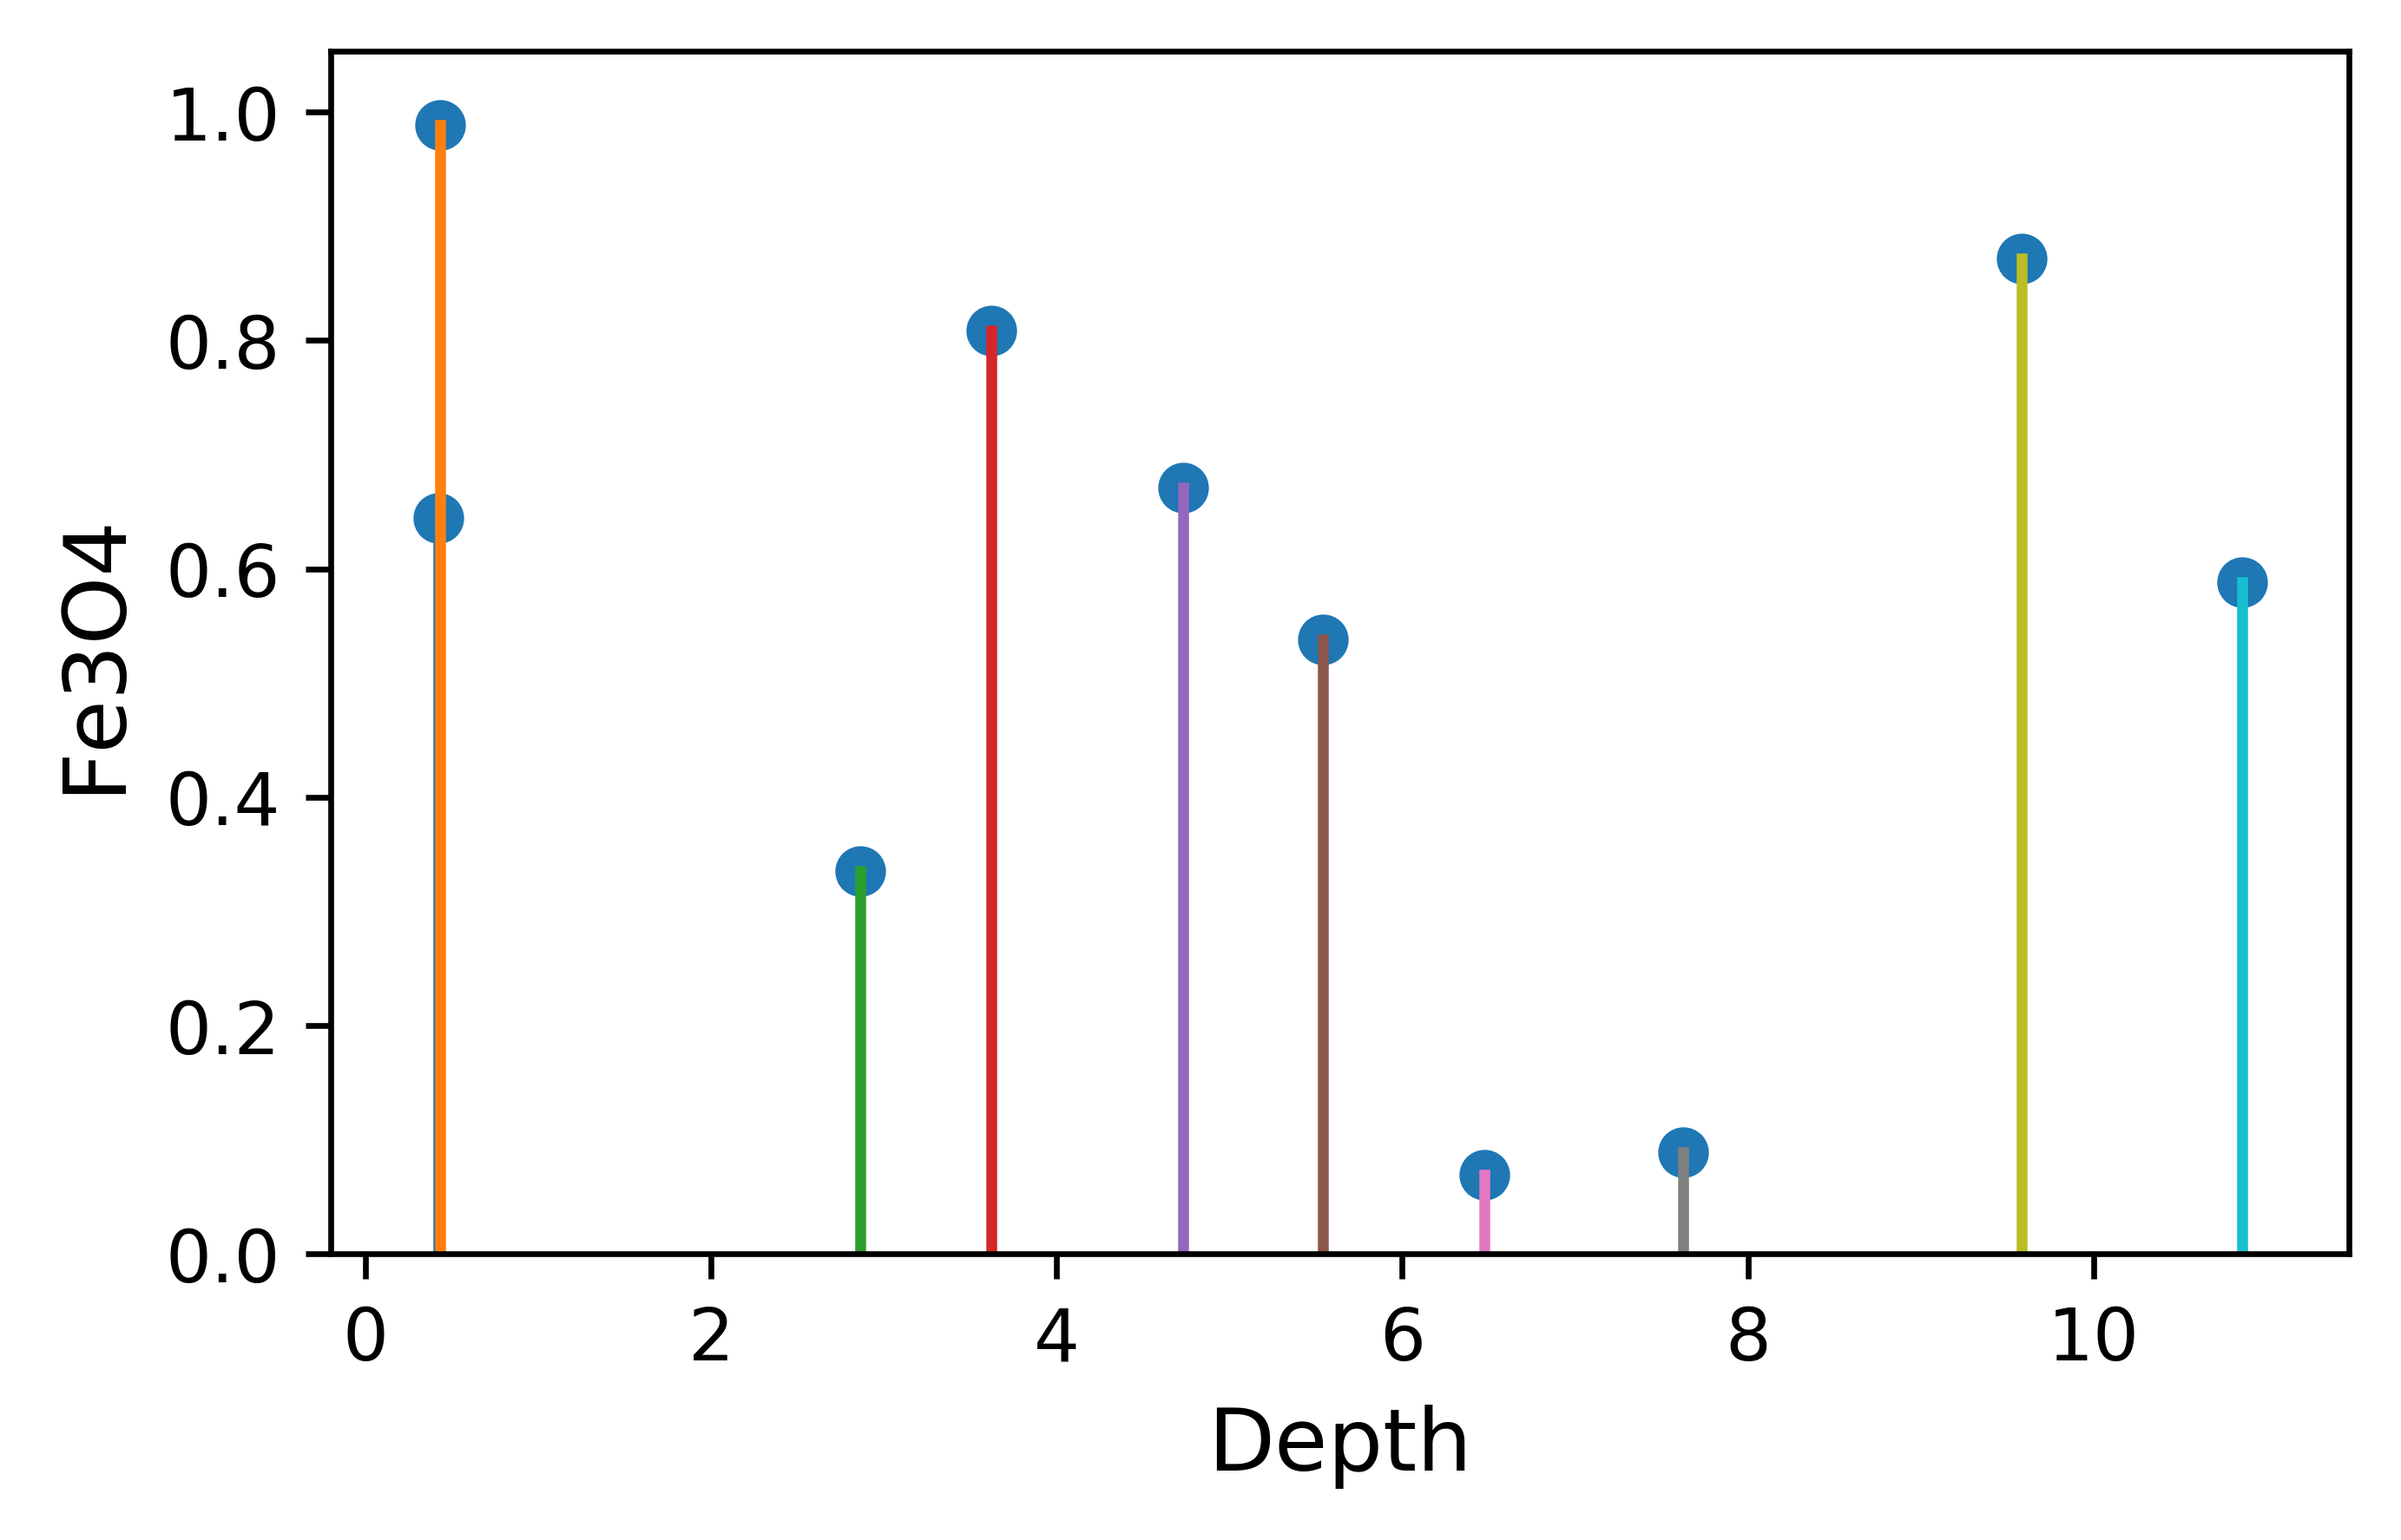
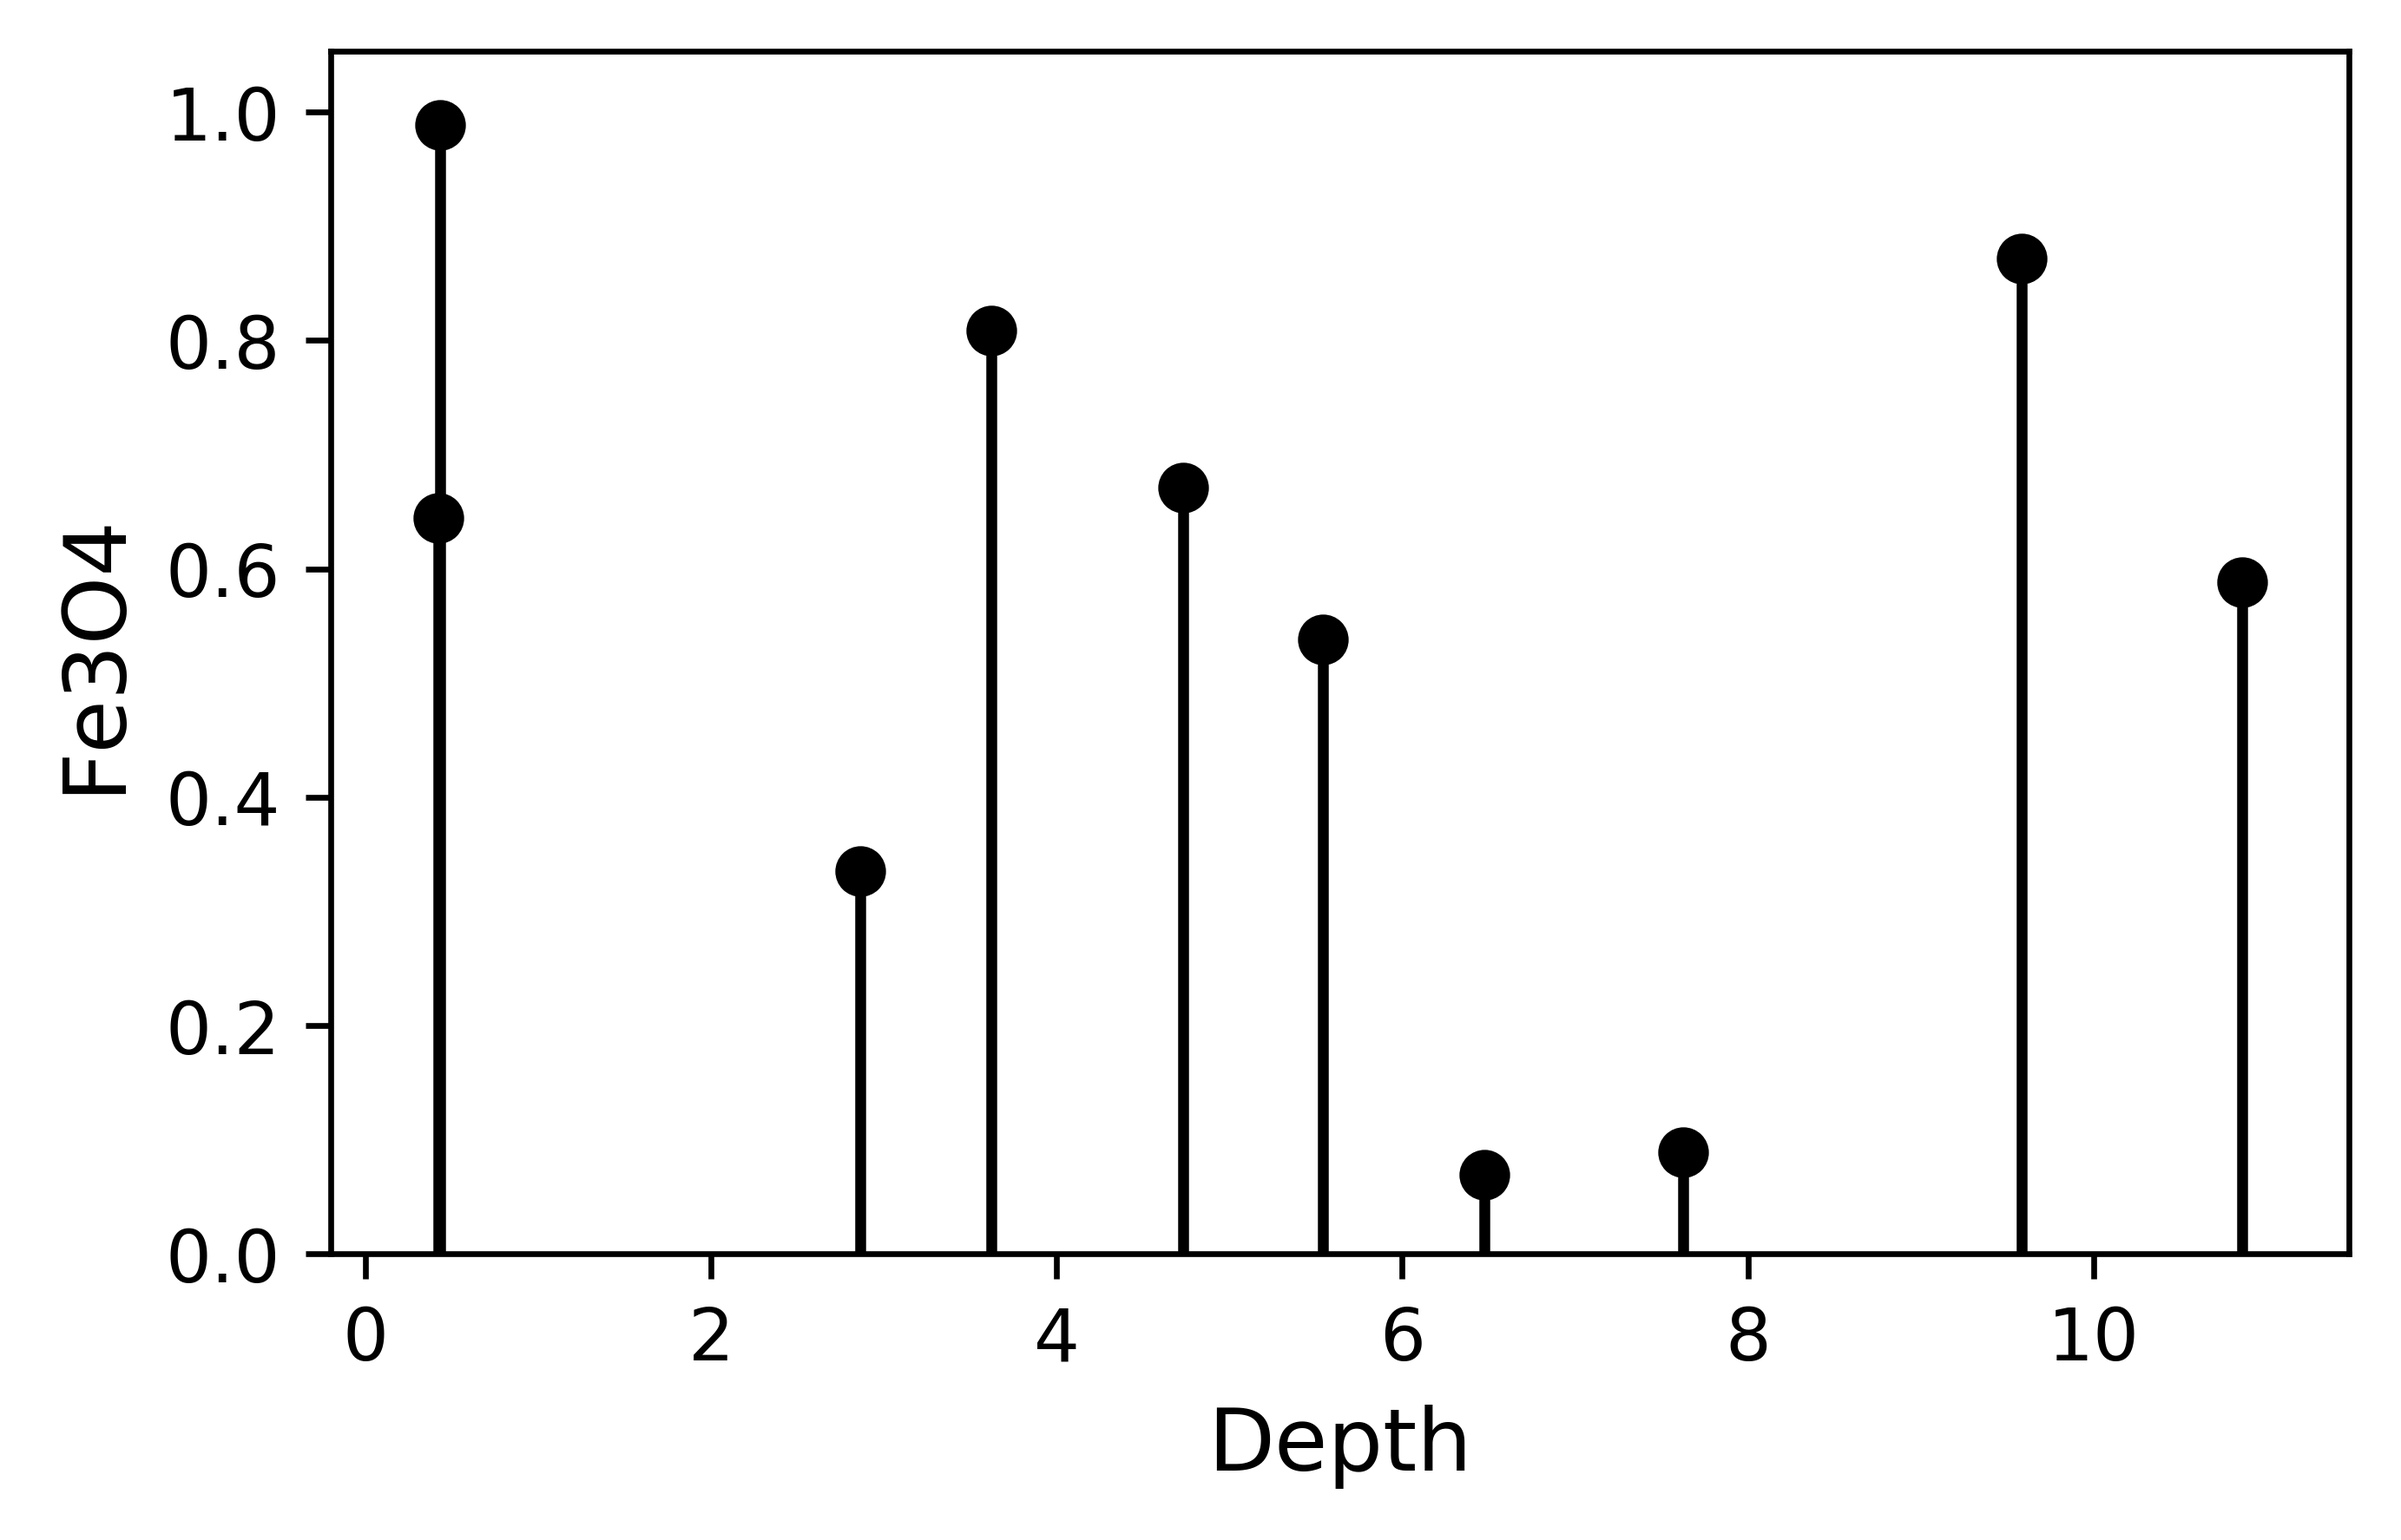
Update stem example
Update stem example

diff --git a/pyrolite/plot/stem.py b/pyrolite/plot/stem.py
@@ -1,14 +1,13 @@
 import matplotlib.pyplot as plt
 import numpy as np
 import logging
-from ..util.meta import subkwargs
-from ..util.plot import init_axes
+from ..util.plot import init_axes, linekwargs, scatterkwargs
 
 logging.getLogger(__name__).addHandler(logging.NullHandler())
 logger = logging.getLogger(__name__)
 
 
-def stem(x, y, ax=None, orientation="horizontal", color="0.5", **kwargs):
+def stem(x, y, ax=None, orientation="horizontal", **kwargs):
     """
     Create a stem (or 'lollipop') plot, with optional orientation.
 
@@ -20,8 +19,6 @@ def stem(x, y, ax=None, orientation="horizontal", color="0.5", **kwargs):
         The subplot to draw on.
     orientation : :class:`str`
         Orientation of the plot (horizontal or vertical).
-    color : :class:`str`
-        Color of lines and markers (unless otherwise overridden).
 
     Returns
     -------
@@ -31,16 +28,17 @@ def stem(x, y, ax=None, orientation="horizontal", color="0.5", **kwargs):
     ax = init_axes(ax=ax, **kwargs)
 
     orientation = orientation.lower()
-    xs, ys = [x, x], [np.zeros_like(y), y]
+    xs, ys = np.array([x, x]), np.array([np.zeros_like(y), y])
     positivey = (y > 0 | ~np.isfinite(y)).all() | np.allclose(y, 0)
+    kwargs["color"] = kwargs.get("color") or "0.5"
     if "h" in orientation:
-        ax.plot(xs, ys, color=color, **subkwargs(kwargs, ax.plot))
-        ax.scatter(x, y, **{"c": color, **subkwargs(kwargs, ax.scatter)})
+        ax.plot(xs, ys, **linekwargs(kwargs))
+        ax.scatter(x, y, **scatterkwargs(kwargs))
         if positivey:
             ax.set_ylim(0, ax.get_ylim()[1])
     else:
-        ax.plot(ys, xs, color=color, **subkwargs(kwargs, ax.plot))
-        ax.scatter(y, x, **{"c": color, **subkwargs(kwargs, ax.scatter)})
+        ax.plot(ys, xs, **linekwargs(kwargs))
+        ax.scatter(y, x, **scatterkwargs(kwargs))
         if positivey:
             ax.set_xlim(0, ax.get_xlim()[1])
 

diff --git a/pyrolite/plot/color.py b/pyrolite/plot/color.py
@@ -93,13 +93,31 @@ def process_color(
     This will not modify other named colors (e.g. linecolor, markercolor).
     """
     assert not ((c is not None) and (color is not None))
-
+    for kw in [  # extra color kwargs
+        "markerfacecolor",
+        "markeredgecolor",
+        "edgecolors",
+        "linecolor",
+        "ecolor",
+        "facecolor",
+    ]:
+        if kw in otherkwargs:  # this allows processing of alpha with a given color
+            otherkwargs[kw] = process_color(
+                c=otherkwargs[kw], alpha=alpha, cmap=cmap, norm=norm
+            )["color"]
     if c is not None:
         C = c
     elif color is not None:
         C = color
     else:
-        return {"c": c, "color": color, "cmap": cmap, "norm": norm, **otherkwargs}
+        return {
+            **{
+                k: v
+                for k, v in {"c": c, "color": color, "cmap": cmap, "norm": norm}.items()
+                if v is not None
+            },
+            **otherkwargs,
+        }
 
     cmode = get_cmode(C)
     _c, _color = None, None
@@ -129,17 +147,6 @@ def process_color(
             C[:, -1] = alpha
         _c, _color = C, C
 
-    for kw in [ # extra color kwargs
-        "markerfacecolor",
-        "markeredgecolor",
-        "linecolor",
-        "ecolor",
-        "facecolor",
-    ]:
-        if kw in otherkwargs: # this allows processing of alpha with a given color
-            otherkwargs[kw] = process_color(
-                c=otherkwargs[kw], alpha=alpha, cmap=cmap, norm=norm
-            )["color"]
     return {"c": _c, "color": _color, **otherkwargs}
 
 

diff --git a/docs/source/examples/plotting/stem.py b/docs/source/examples/plotting/stem.py
@@ -13,6 +13,7 @@ import numpy as np
 import matplotlib.pyplot as plt
 from pyrolite.plot import pyroplot
 from pyrolite.plot.stem import stem
+
 # sphinx_gallery_thumbnail_number = 2
 
 np.random.seed(82)
@@ -24,14 +25,19 @@ y = np.random.rand(10)
 df = pd.DataFrame(np.vstack([x, y]).T, columns=["Depth", "Fe3O4"])
 ########################################################################################
 # A minimal stem plot can be constructed as follows:
-ax = stem(df.Depth, df.Fe3O4, figsize=(5, 3))
-# or, alternatively directly from the dataframe:
-ax = df.pyroplot.stem(figsize=(5, 3))
+ax = df.pyroplot.stem(color="k", figsize=(5, 3))
 ########################################################################################
 # Stem plots can also be used in a vertical orientation, such as for visualising
 # discrete observations down a drill hole:
 #
-ax = df.pyroplot.stem(orientation="vertical", figsize=(3, 5))
+ax = df.pyroplot.stem(
+    orientation="vertical",
+    s=12,
+    linestyle="--",
+    linewidth=0.5,
+    color="k",
+    figsize=(3, 5),
+)
 # the yaxes can then be inverted using:
 ax.invert_yaxis()
 # and if you'd like the xaxis to be labeled at the top:

diff --git a/docs/source/usage/examples/_auto/plotting/stem.py b/docs/source/usage/examples/_auto/plotting/stem.py
@@ -13,6 +13,7 @@ import numpy as np
 import matplotlib.pyplot as plt
 from pyrolite.plot import pyroplot
 from pyrolite.plot.stem import stem
+
 # sphinx_gallery_thumbnail_number = 2
 
 np.random.seed(82)
@@ -24,14 +25,19 @@ y = np.random.rand(10)
 df = pd.DataFrame(np.vstack([x, y]).T, columns=["Depth", "Fe3O4"])
 ########################################################################################
 # A minimal stem plot can be constructed as follows:
-ax = stem(df.Depth, df.Fe3O4, figsize=(5, 3))
-# or, alternatively directly from the dataframe:
-ax = df.pyroplot.stem(figsize=(5, 3))
+ax = df.pyroplot.stem(color="k", figsize=(5, 3))
 ########################################################################################
 # Stem plots can also be used in a vertical orientation, such as for visualising
 # discrete observations down a drill hole:
 #
-ax = df.pyroplot.stem(orientation="vertical", figsize=(3, 5))
+ax = df.pyroplot.stem(
+    orientation="vertical",
+    s=12,
+    linestyle="--",
+    linewidth=0.5,
+    color="k",
+    figsize=(3, 5),
+)
 # the yaxes can then be inverted using:
 ax.invert_yaxis()
 # and if you'd like the xaxis to be labeled at the top:

diff --git a/pyrolite/util/plot.py b/pyrolite/util/plot.py
@@ -99,6 +99,7 @@ def linekwargs(kwargs):
         matplotlib.lines.Line2D,
         matplotlib.collections.Collection,
     )
+    # could trim cmap and norm here, in case they get passed accidentally
     kw.update(
         **dict(alpha=kwargs.get("alpha"), label=kwargs.get("label"))
     )  # issues with introspection for alpha

diff --git a/docs/source/examples/plotting/stem.rst b/docs/source/examples/plotting/stem.rst
@@ -21,6 +21,7 @@ emphasised by a scatter plot).
     from pyrolite.plot import pyroplot
     from pyrolite.plot.stem import stem
 
+
     np.random.seed(82)
 
 
@@ -50,9 +51,7 @@ A minimal stem plot can be constructed as follows:
 
 .. code-block:: default
 
-    ax = stem(df.Depth, df.Fe3O4, figsize=(5, 3))
-    # or, alternatively directly from the dataframe:
-    ax = df.pyroplot.stem(figsize=(5, 3))
+    ax = df.pyroplot.stem(color="k", figsize=(5, 3))
 
 
 
@@ -70,7 +69,14 @@ discrete observations down a drill hole:
 
 .. code-block:: default
 
-    ax = df.pyroplot.stem(orientation="vertical", figsize=(3, 5))
+    ax = df.pyroplot.stem(
+        orientation="vertical",
+        s=12,
+        linestyle="--",
+        linewidth=0.5,
+        color="k",
+        figsize=(3, 5),
+    )
     # the yaxes can then be inverted using:
     ax.invert_yaxis()
     # and if you'd like the xaxis to be labeled at the top:
@@ -89,7 +95,7 @@ discrete observations down a drill hole:
 
 .. rst-class:: sphx-glr-timing
 
-   **Total running time of the script:** ( 0 minutes  1.613 seconds)
+   **Total running time of the script:** ( 0 minutes  1.739 seconds)
 
 
 .. _sphx_glr_download_examples_plotting_stem.py:
